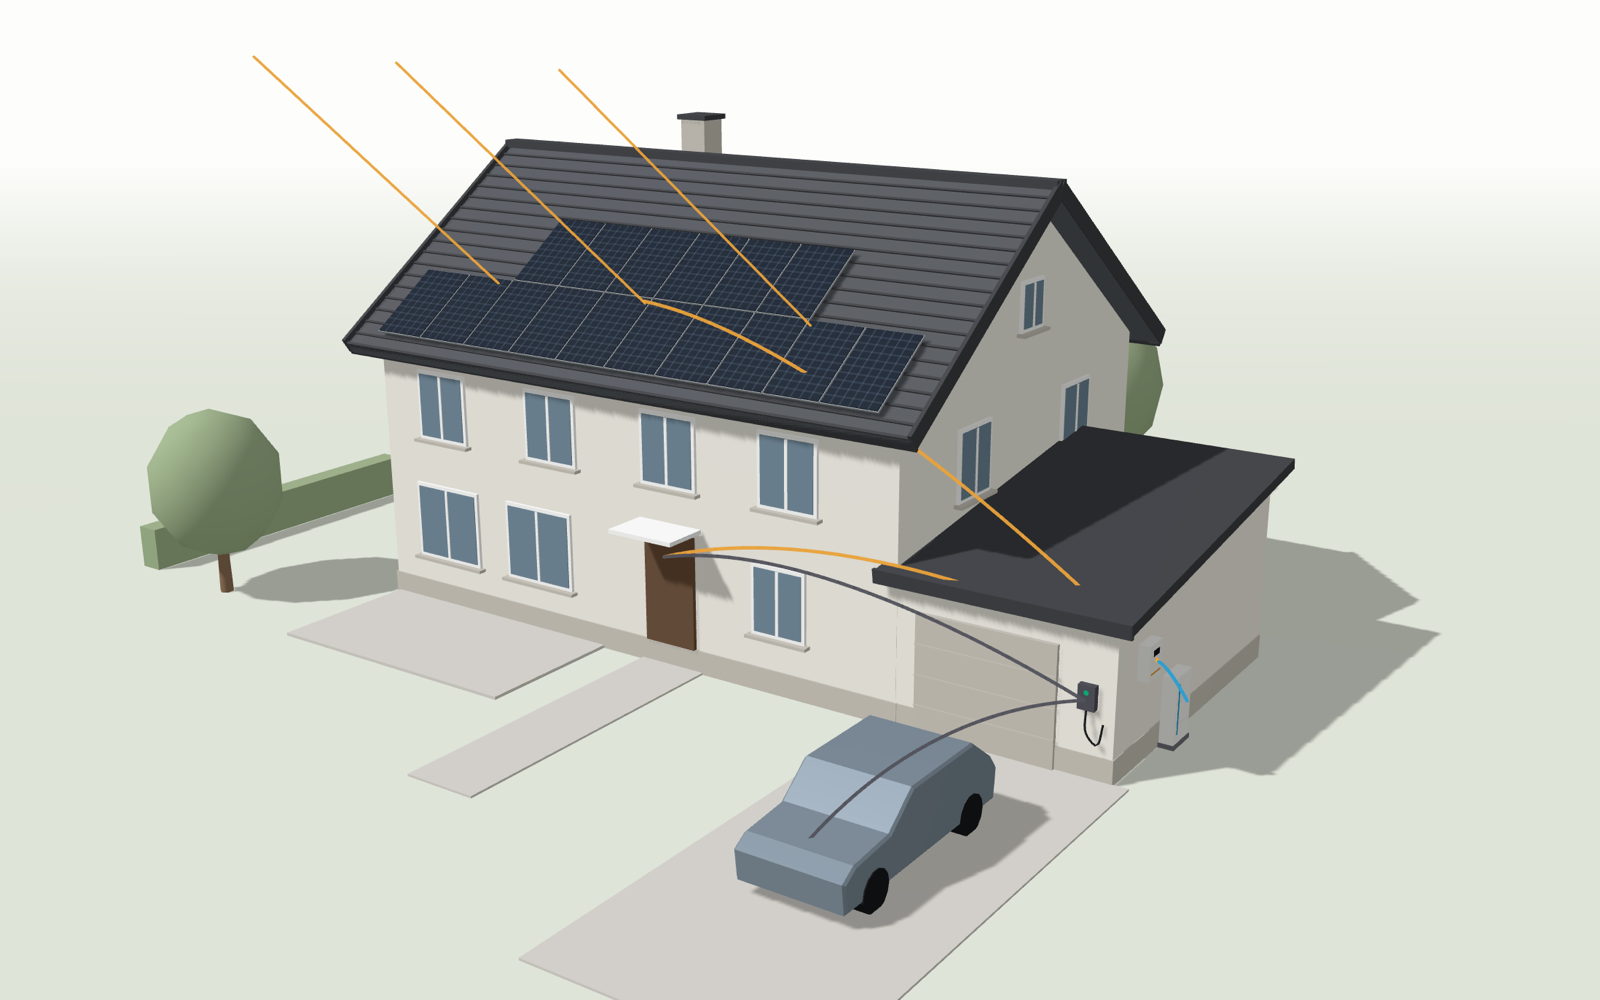
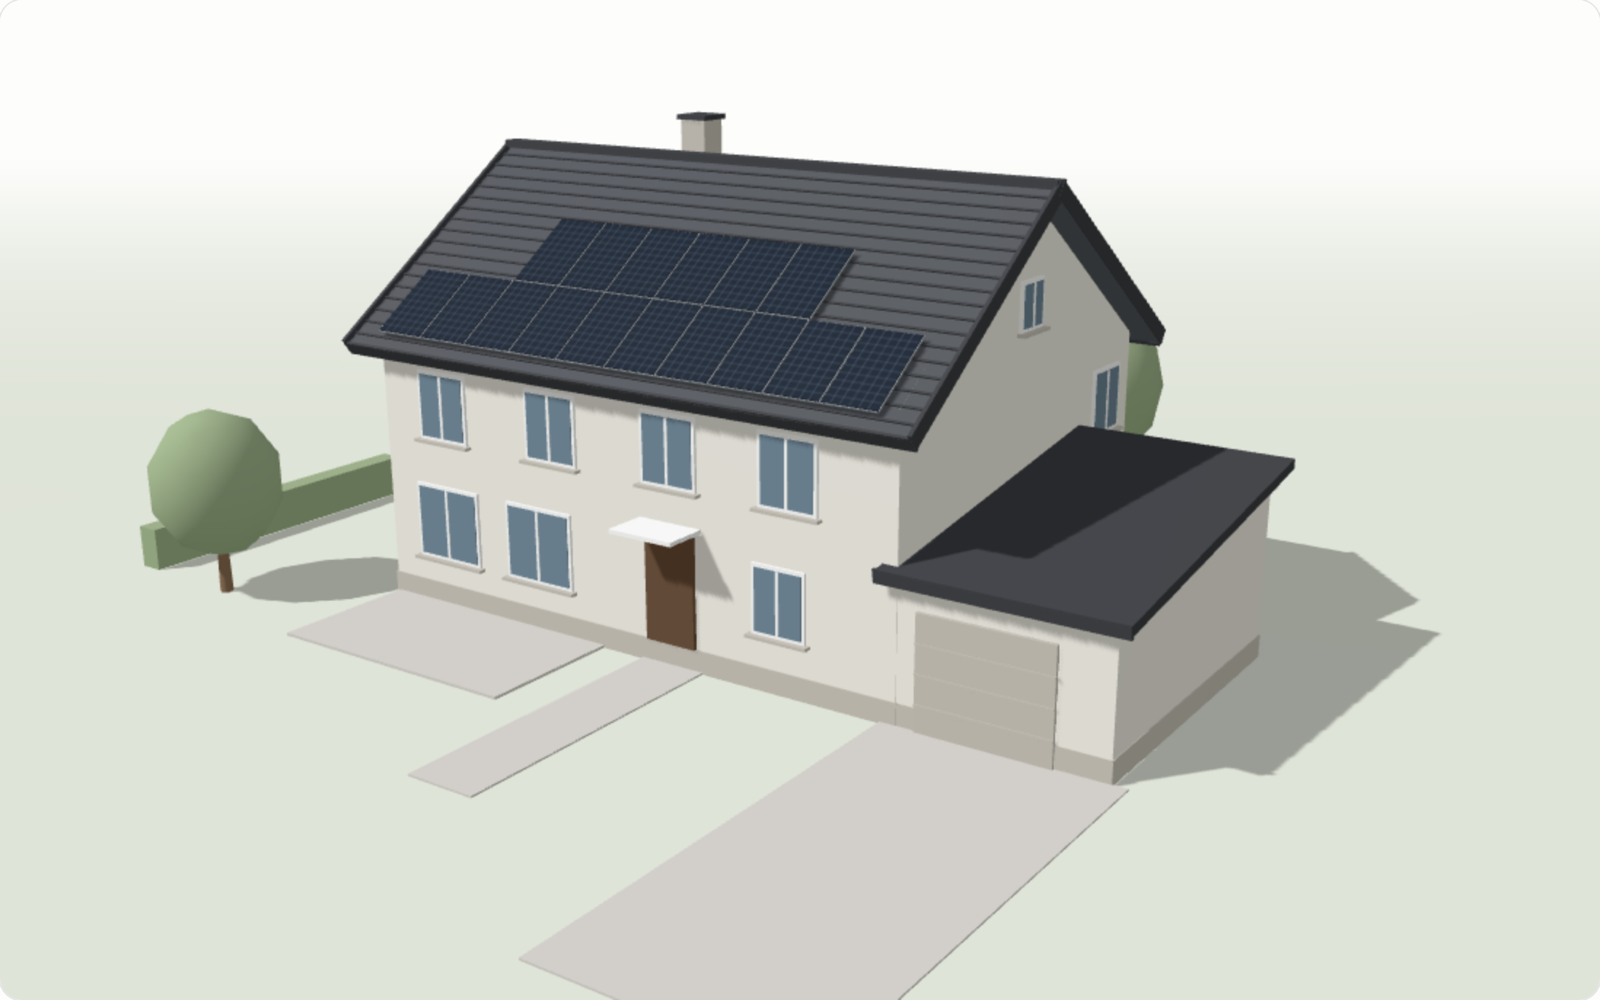
fix(house3d): page scroll on touch survives camera-controls connect; neutral light/dark still images

diff --git a/web/src/components/house3d/CameraRig.tsx b/web/src/components/house3d/CameraRig.tsx
@@ -29,13 +29,17 @@ const { DOLLY, NONE } = CameraControlsImpl.ACTION;
  * (trackpad pinch sends ctrl+wheel). camera-controls sets touch-action: none on the element it connects to
  * (drei connects it in its own, earlier, child effect).
  */
-function letPageScroll(c: CameraControlsImpl): () => void {
-  const el = (c as unknown as { _domElement?: HTMLElement })._domElement;
-  if (!el) return () => {};
-  el.style.touchAction = "pan-y";
+function letPageScroll(c: CameraControlsImpl, done: { el: HTMLElement | null; undo: () => void }) {
+  const el = (c as unknown as { _domElement?: HTMLElement })._domElement ?? null;
+  if (el && el.style.touchAction !== "pan-y") el.style.touchAction = "pan-y";
+  if (el === done.el) return;
+  done.undo();
+  done.el = el;
+  done.undo = () => {};
+  if (!el) return;
   const onWheel = (e: WheelEvent) => { c.mouseButtons.wheel = e.ctrlKey || e.metaKey ? DOLLY : NONE; };
   el.addEventListener("wheel", onWheel, { capture: true, passive: true });
-  return () => el.removeEventListener("wheel", onWheel, { capture: true });
+  done.undo = () => el.removeEventListener("wheel", onWheel, { capture: true });
 }
 
 export function CameraRig({ request, rotationY, reduced }: { request: PresetRequest; rotationY: number; reduced: boolean }) {
@@ -44,6 +48,7 @@ export function CameraRig({ request, rotationY, reduced }: { request: PresetRequ
   const clock = useRef(0);
   const first = useRef(true);
   const reducedRef = useRef(reduced);
+  const scrollSetup = useRef<{ el: HTMLElement | null; undo: () => void }>({ el: null, undo: () => {} });
 
   useEffect(() => { reducedRef.current = reduced; }, [reduced]);
 
@@ -64,9 +69,9 @@ export function CameraRig({ request, rotationY, reduced }: { request: PresetRequ
     const mark = () => { lastInput.current = clock.current; };
     c.addEventListener("controlstart", mark);
     c.addEventListener("control", mark);
-    const undo = letPageScroll(c);
+    const scroll = scrollSetup.current;
     return () => {
-      undo();
+      scroll.undo();
       c.removeEventListener("controlstart", mark);
       c.removeEventListener("control", mark);
     };
@@ -75,7 +80,9 @@ export function CameraRig({ request, rotationY, reduced }: { request: PresetRequ
   useFrame((_, dt) => {
     clock.current += dt;
     const c = ref.current;
-    if (!c || reduced) return;
+    if (!c) return;
+    letPageScroll(c, scrollSetup.current); // cheap; camera-controls (re)connects after our effects
+    if (reduced) return;
     if (clock.current - lastInput.current > IDLE_AFTER) void c.rotate(dt * IDLE_SPEED, 0, false);
   });
 

diff --git a/web/src/components/house3d/README.md b/web/src/components/house3d/README.md
@@ -31,7 +31,7 @@ render from a server page. Pass a new `design` object after a refine and only th
 - Camera: orbit with limits, slow idle turn after 4 s, presets Overview / Roof / Garage. Hover or tap a part, or use
   the legend buttons (keyboard too), to see its size and the engine's first reason.
 - `prefers-reduced-motion`: no idle turn, solid flow lines, parts appear without animation.
-- Still image `/models/house-fallback.png` when WebGL is missing, data saver is on, the device has ≤ 2 cores, or
+- Still image (`/models/house-fallback.png`, `-dark.png`: house and panels only, no other equipment) when WebGL is missing, data saver is on, the device has ≤ 2 cores, or
   `static` is set. It is also shown until the first 3D frame is drawn. The legend still lists the real design.
 - DPR capped at 2, drops to 1 when the frame rate falls.
 
@@ -41,5 +41,5 @@ render from a server page. Pass a new `design` object after a refine and only th
 `equipmentGeometry.ts` (procedural three.js models; Blender was not available), `Scene.tsx`, `Equipment.tsx`,
 `EnergyFlow.tsx`, `CameraRig.tsx`, `Tooltip.tsx`, `House3D.tsx`. Tests: `npm test`.
 
-Regenerate the still image: render the component in light theme with reduced motion, click "Save image" in planner
-mode, scale to 1600×1000 and replace `web/public/models/house-fallback.png`.
+Regenerate the still images: render the component (light, then dark) with reduced motion and with equipment and
+flow lines temporarily hidden, screenshot the canvas area at 1600×1000 and replace the two PNGs in `web/public/models/`.
